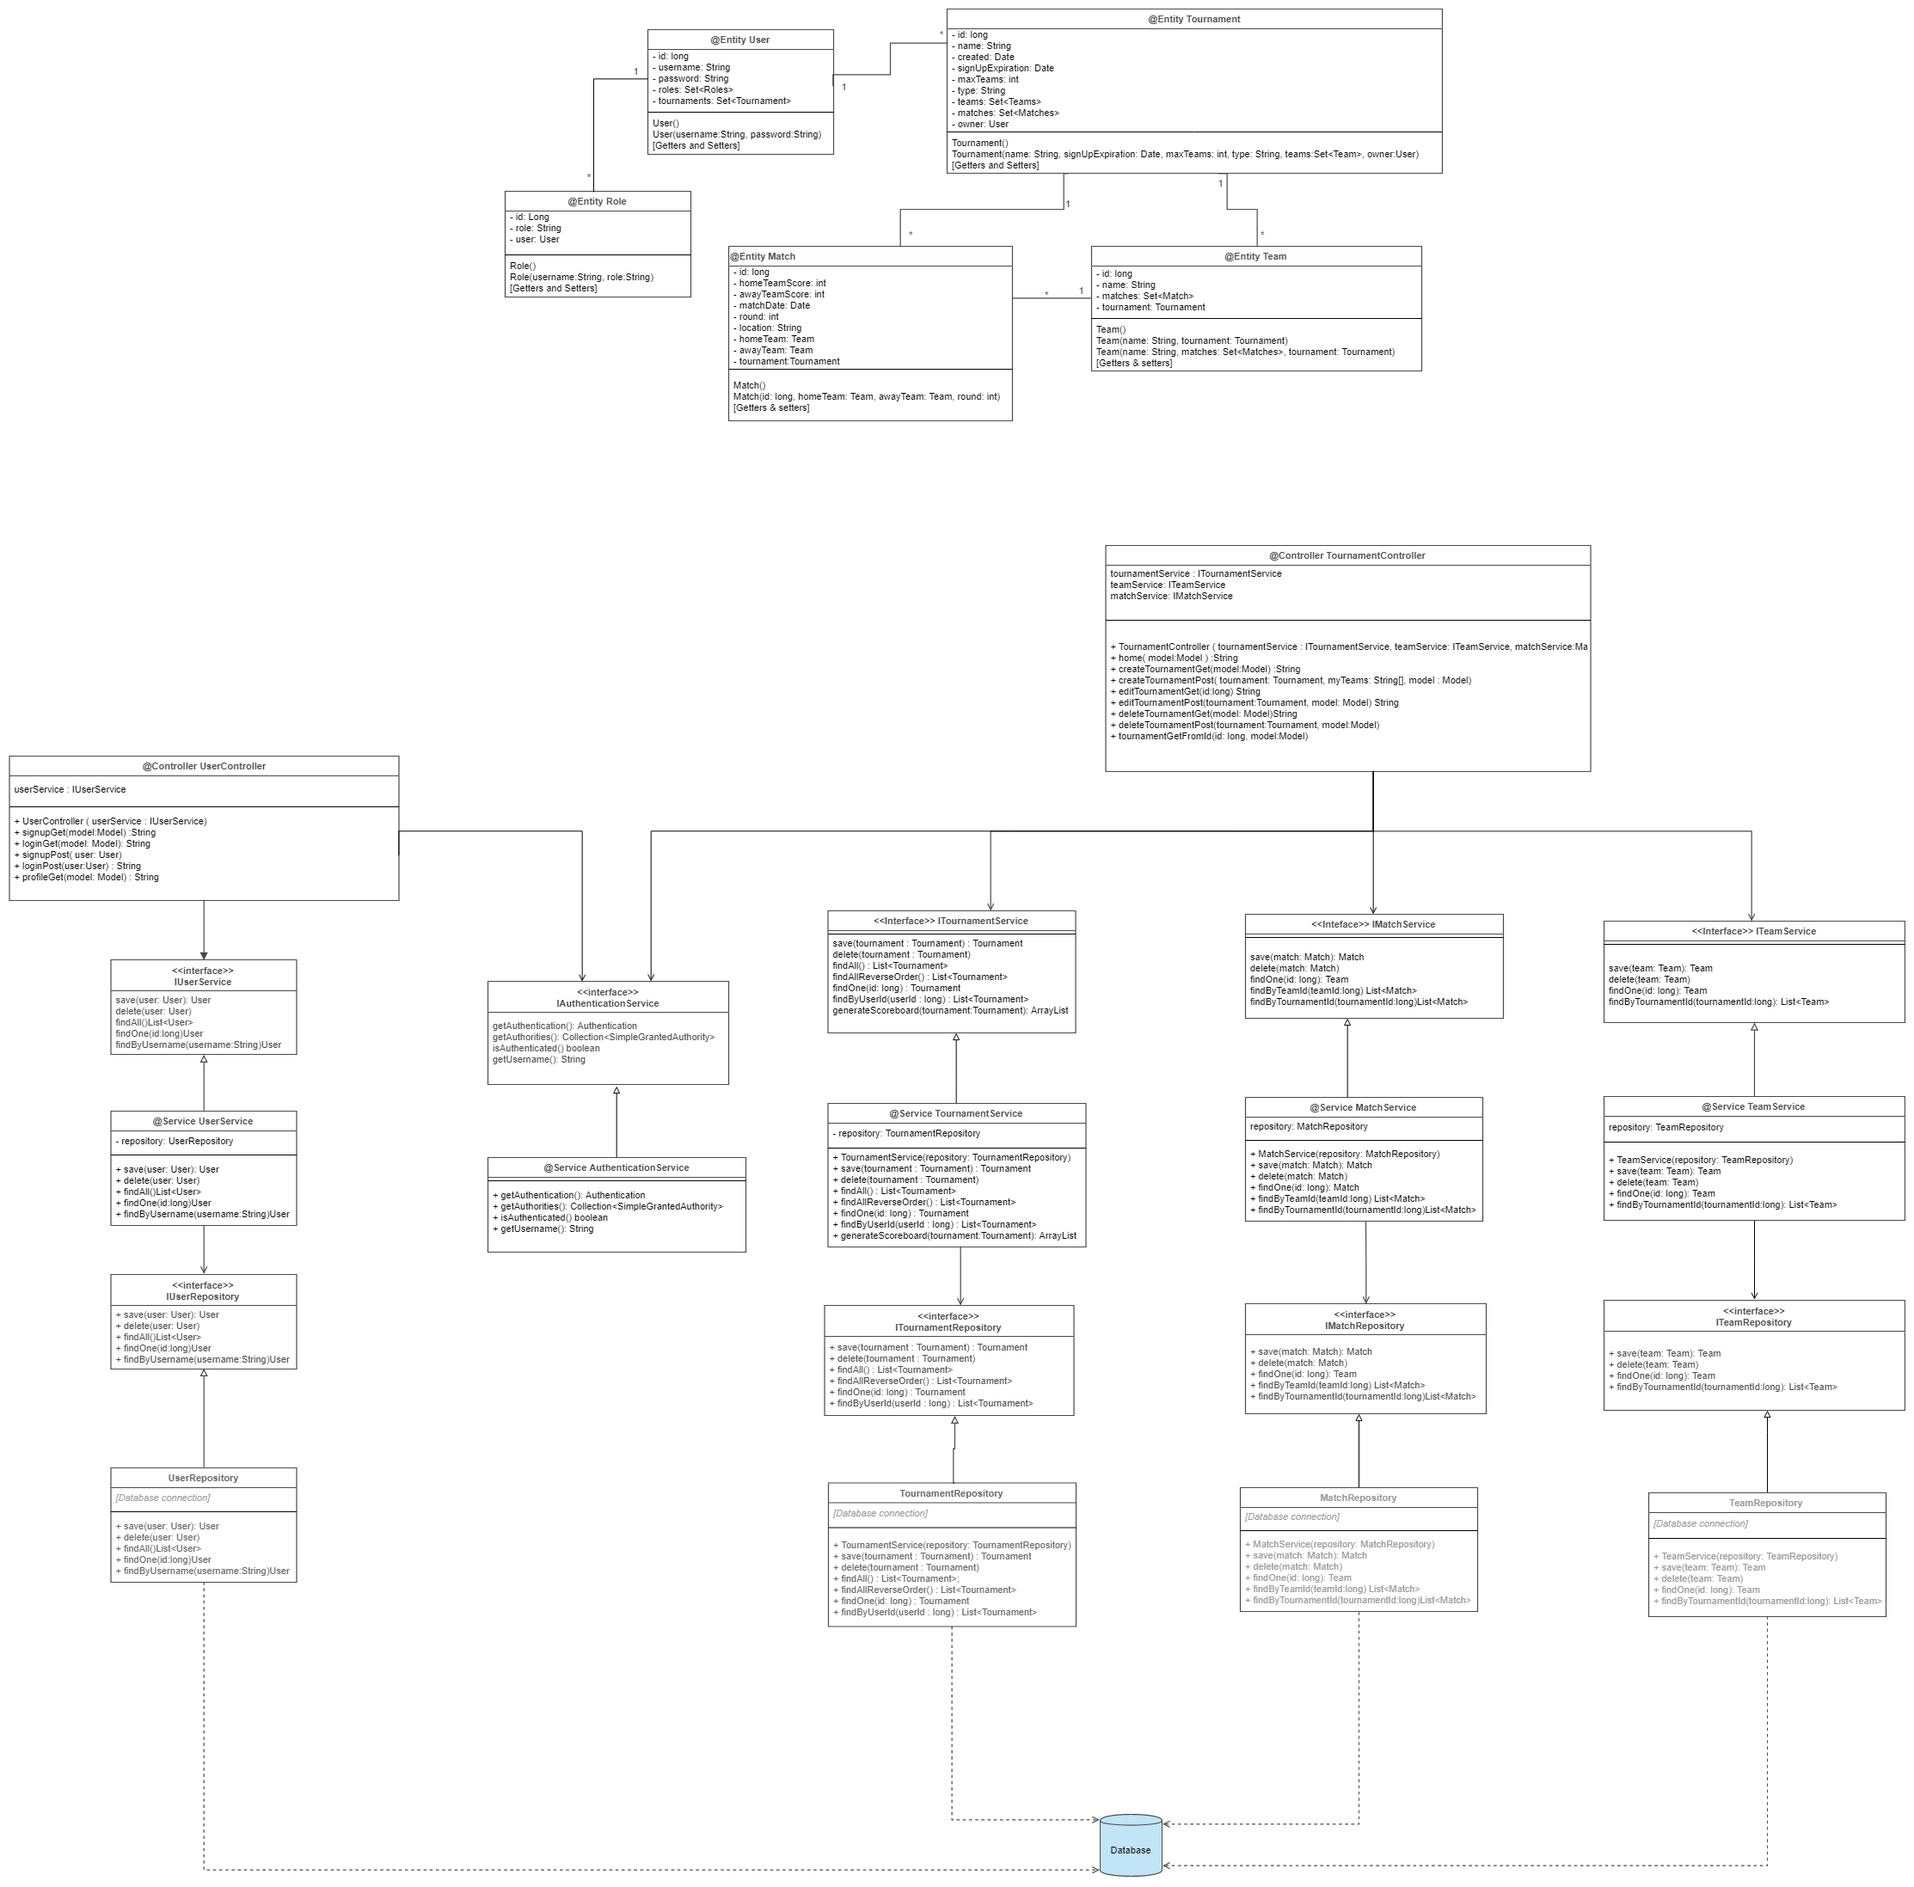
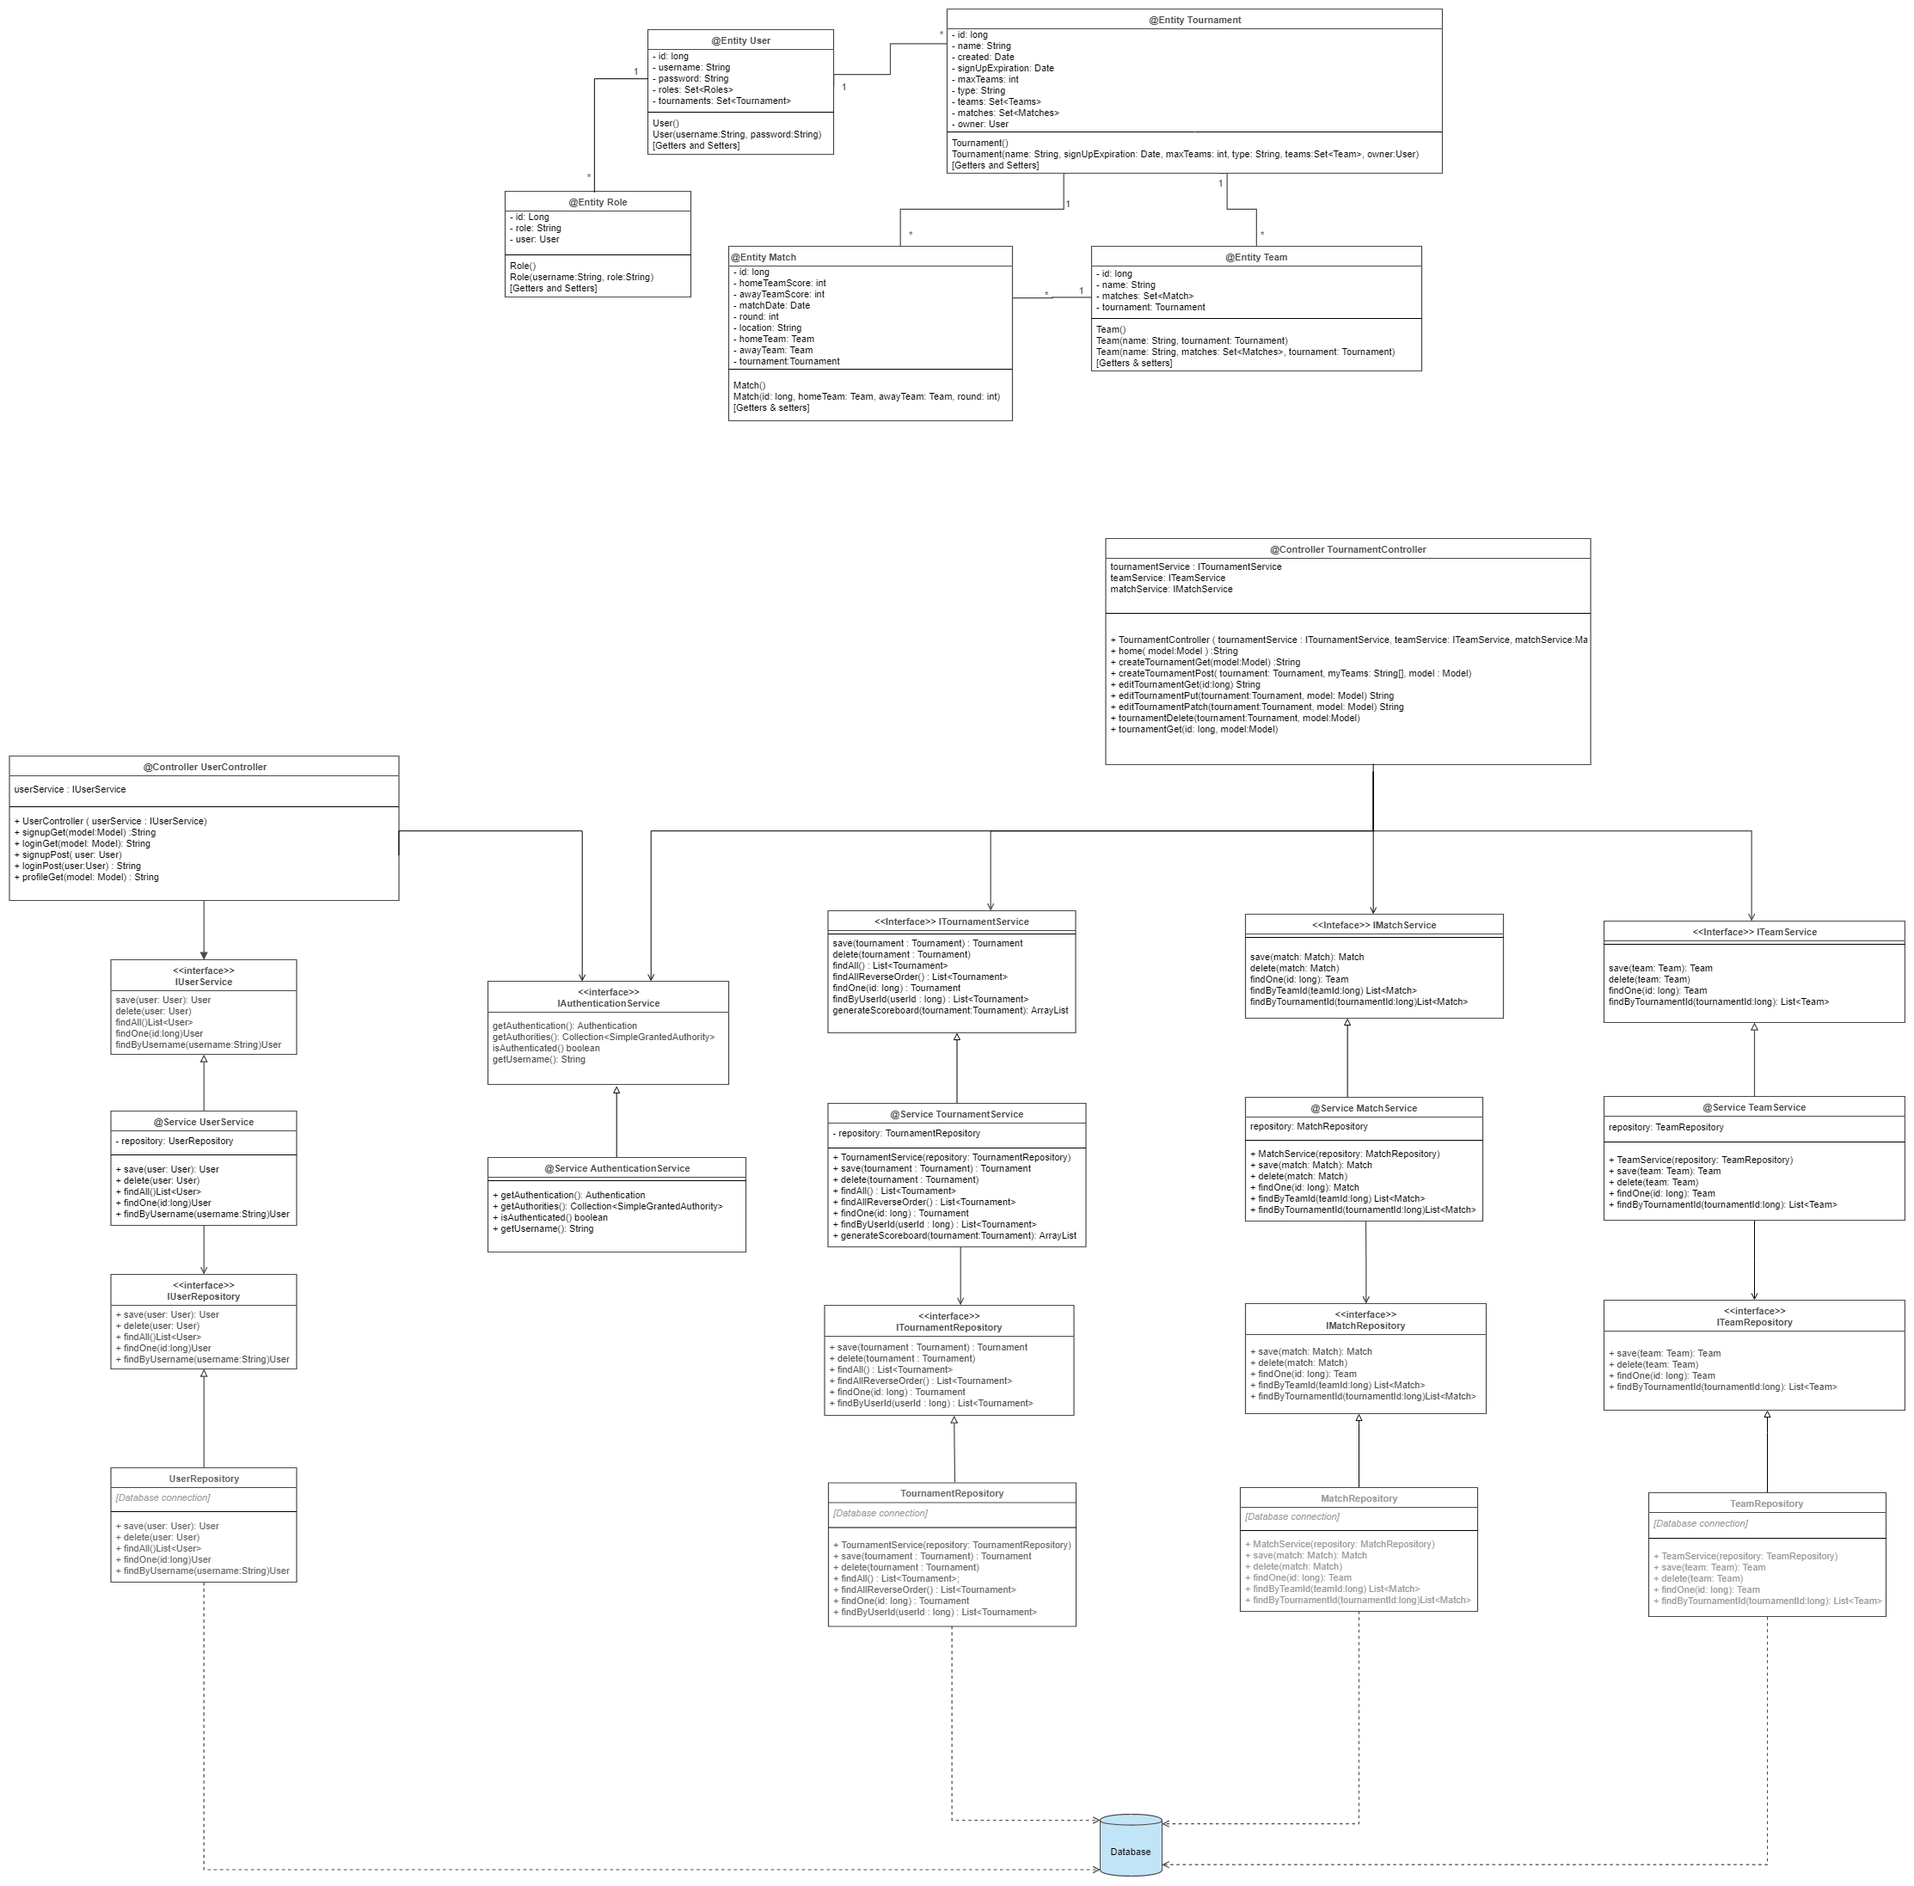
Villuskilaboð með NotImplemented

diff --git a/src/main/java/project/controller/TournamentController.java b/src/main/java/project/controller/TournamentController.java
@@ -2,12 +2,10 @@ package project.controller;
 
 import org.apache.logging.log4j.LogManager;
 import org.apache.logging.log4j.Logger;
+import org.springframework.http.HttpStatus;
 import org.springframework.stereotype.Controller;
 import org.springframework.ui.Model;
-import org.springframework.web.bind.annotation.ModelAttribute;
-import org.springframework.web.bind.annotation.RequestMapping;
-import org.springframework.web.bind.annotation.RequestMethod;
-import org.springframework.web.bind.annotation.RequestParam;
+import org.springframework.web.bind.annotation.*;
 import project.persistence.entities.Team;
 import project.persistence.entities.Tournament;
 import project.persistence.entities.User;
@@ -77,6 +75,7 @@ public class TournamentController {
     }
 
     @RequestMapping(value = "/edit", method = RequestMethod.GET)
+    @ResponseStatus(value = HttpStatus.NOT_IMPLEMENTED)
     public String tournamentEditGet(Model model,
                                     @RequestParam(value = "id")Long id){
         // TODO: Implement this
@@ -86,6 +85,7 @@ public class TournamentController {
     }
 
     @RequestMapping(value = "/edit", method = RequestMethod.PUT)
+    @ResponseStatus(value = HttpStatus.NOT_IMPLEMENTED)
     public String tournamentEditPut(Model model,
                                     @RequestParam(value = "id")Long id){
         // TODO: Implement this
@@ -95,6 +95,7 @@ public class TournamentController {
     }
 
     @RequestMapping(value = "/edit", method = RequestMethod.PATCH)
+    @ResponseStatus(value = HttpStatus.NOT_IMPLEMENTED)
     public String tournamentEditPatch(Model model,
                                       @RequestParam(value = "id")Long id){
         // TODO: Implement this
@@ -104,6 +105,7 @@ public class TournamentController {
     }
 
     @RequestMapping(value = "/edit", method = RequestMethod.DELETE)
+    @ResponseStatus(value = HttpStatus.NOT_IMPLEMENTED)
     public String tournamentDelete(Model model,
                                    @RequestParam(value = "id")Long id){
         // TODO: Implement this

diff --git a/src/main/java/project/controller/CustomErrorController.java b/src/main/java/project/controller/CustomErrorController.java
@@ -1,5 +1,7 @@
 package project.controller;
 
+import org.apache.logging.log4j.LogManager;
+import org.apache.logging.log4j.Logger;
 import org.springframework.boot.web.servlet.error.ErrorController;
 import org.springframework.http.HttpStatus;
 import org.springframework.stereotype.Controller;
@@ -13,12 +15,14 @@ import javax.servlet.http.HttpServletRequest;
  ************************/
 @Controller
 public class CustomErrorController implements ErrorController {
+    Logger logger = LogManager.getLogger(UserController.class);
+
     @RequestMapping("/error")
     public String handleError(HttpServletRequest request) {
         Object status = request.getAttribute(RequestDispatcher.ERROR_STATUS_CODE);
-
         if (status != null) {
             Integer statusCode = Integer.valueOf(status.toString());
+            logger.info("Error - statusCode: " + statusCode);
 
             if(statusCode == HttpStatus.NOT_FOUND.value()) {
                 return "errors/error-404";
